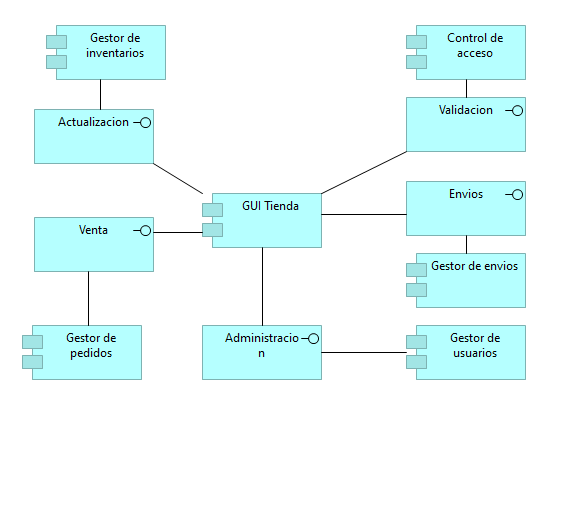
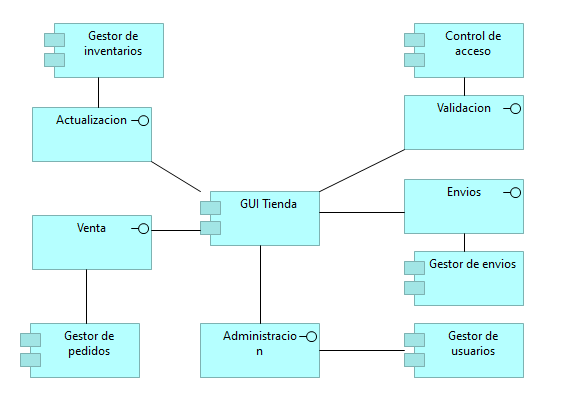
Ajustes Read me

diff --git a/README.md b/README.md
@@ -27,7 +27,7 @@ Se presenta los diagramas relacionados a la arquitectura de una tienda de produc
   <h5>Estructura de aplicacion</h5>
   <img src="/images/Estructura_de_aplicacion.png" width="550" alt="Estructura de aplicacion">
   <h5>Estructurade la Informacion</h5>
-  <img src="/images/EstructuraInformacion.png" width="550" alt="Estructurade la Informacion">
+  <img src="/images/EstructuraInformacion.png" width="650" alt="Estructurade la Informacion">
   <h5>Funciones del negocio</h5>
   <img src="/images/Funciones_del_negocio.png" width="550" alt="Funciones del negocio">
   <h5>Infraestructura</h5>
@@ -35,7 +35,7 @@ Se presenta los diagramas relacionados a la arquitectura de una tienda de produc
   <h5>Motivacion</h5>
   <img src="/images/Motivacion.png" width="650" alt="Motivacion">
   <h5>Organizacion de la implementacion</h5>
-  <img src="/images/Organizacion_implementacion.png" width="550" alt="Organizacion de la implementacion">
+  <img src="/images/Organizacion_implementacion.png" width="650" alt="Organizacion de la implementacion">
   <h5>Procesos de Negocios</h5>
   <img src="/images/ProcesosNegocios.png" width="550" alt="Procesos de Negocios">
   <h5>Producto</h5>
@@ -45,13 +45,13 @@ Se presenta los diagramas relacionados a la arquitectura de una tienda de produc
   <h5>Realizacion de Requerimientos</h5>
   <img src="/images/RealizacionRequerimientos.png" width="550" alt="Realizacion de Requerimientos">
   <h5>Realizacion del Servicio</h5>
-  <img src="/images/RealizacionServicio.png" width="550" alt="Realizacion del Servicio">
+  <img src="/images/RealizacionServicio.png" width="650" alt="Realizacion del Servicio">
   <h5>Resumen de Capas</h5>
-  <img src="/images/ResumenCapas.png" width="550" alt="Resumen de Capas">
+  <img src="/images/ResumenCapas.png" width="650" alt="Resumen de Capas">
   <h5>Uso de la Aplicacion</h5>
   <img src="/images/UsoAplicacion.png" width="550" alt="Uso de la Aplicacion">
   <h5>Uso de Infraestructura</h5>
-  <img src="/images/UsoInfraestructura.png" width="550" alt="Uso de Infraestructura">
+  <img src="/images/UsoInfraestructura.png" width="650" alt="Uso de Infraestructura">
 </div>
 
 ```
